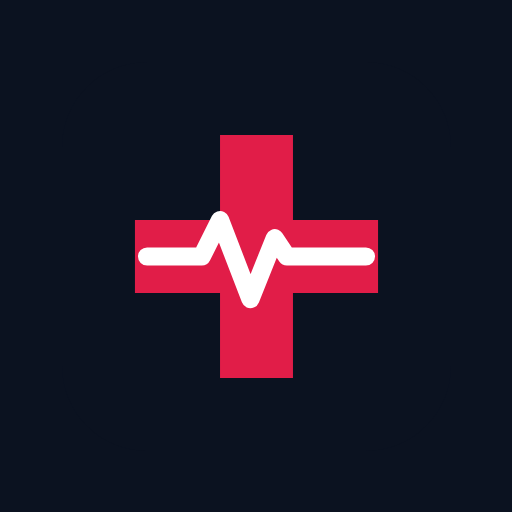
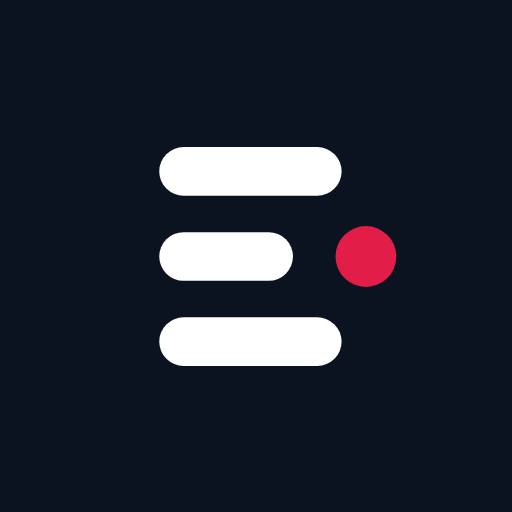
feat(app): portada con accesos rápidos, logotipo e iconos PWA nuevos
Claude-Session: https://claude.ai/code/session_01VWLTZ9C5nfi5t6bbmYMHeX

Changed region(s): [[0.25, 0.25, 0.7812, 0.75]]

diff --git a/app/src/pages/Home.tsx b/app/src/pages/Home.tsx
@@ -6,12 +6,14 @@ import { drugs } from '../data';
 import { AVAILABLE_GROUPS, REFERENCE_GROUPS } from '../data/moduleGroups';
 import { DraftBanner } from '../components/DraftBanner';
 import { ClinicalMinimalIntro } from './ClinicalMinimalIntro';
+import homeCoverCopy from './homeCover.locales.json';
 import './clinical-minimal.css';
 
 const GROUP_ICON: Record<string, IconName> = { vasoactive: 'heart', sedation: 'moon' };
 
 export default function Home() {
-  const { t } = useTranslation();
+  const { t, i18n } = useTranslation();
+  const cover = homeCoverCopy[i18n.resolvedLanguage as keyof typeof homeCoverCopy] ?? homeCoverCopy.en;
   const navigate = useNavigate();
   const [searchParams] = useSearchParams();
   const clinicalMinimal = searchParams.get('design') === 'clinical-minimal';
@@ -22,13 +24,30 @@ export default function Home() {
   };
   return (
     <div className={`space-y-8${clinicalMinimal ? ' clinical-minimal-preview' : ''}`}>
-      <nav aria-label={t('home.clinicalShortcuts')} className="grid grid-cols-2 gap-2 sm:grid-cols-3 lg:grid-cols-6">
-        <Link to="/clinical-note" className="btn-primary">{t('nav.clinicalNote')}</Link>
-        <Link to="/procedures" className="btn-ghost">{t('home.procedures')}</Link>
-        <Link to="/pediatrics" className="btn-ghost">{t('home.pediatrics')}</Link>
-        <Link to="/drugs" className="btn-ghost">{t('nav.drugs')}</Link>
-        <Link to="/scores" className="btn-ghost">{t('home.scores')}</Link>
-        <Link to="/guides" className="btn-ghost">{t('home.guides')}</Link>
+      <nav aria-label={t('home.clinicalShortcuts')} className="space-y-2">
+        <div className="grid grid-cols-2 gap-2.5 lg:grid-cols-4">
+          <Link to="/clinical-note" data-testid="quick-note" className="flex min-h-[104px] flex-col justify-between rounded-2xl bg-fg p-4 text-bg shadow-card transition hover:opacity-90">
+            <span className="font-bold">{t('nav.clinicalNote')}</span>
+            <span className="text-xs opacity-75">{cover.noteHint}</span>
+          </Link>
+          <Link to="/calculator" data-testid="quick-calculator" className="flex min-h-[104px] flex-col justify-between rounded-2xl border border-border bg-surface-2 p-4 transition hover:border-primary">
+            <span className="font-bold">{t('nav.calculator')}</span>
+            <span className="text-xs text-muted">{cover.calcHint}</span>
+          </Link>
+          <Link to="/drugs" data-testid="quick-drugs" className="flex min-h-[104px] flex-col justify-between rounded-2xl border border-border bg-surface-2 p-4 transition hover:border-primary">
+            <span className="font-bold">{t('nav.drugs')}</span>
+            <span className="text-xs text-muted">{cover.drugsHint}</span>
+          </Link>
+          <Link to="/scores" data-testid="quick-scores" className="flex min-h-[104px] flex-col justify-between rounded-2xl border-2 border-fg p-4 transition hover:border-primary">
+            <span className="font-bold">{t('home.scores')}</span>
+          </Link>
+        </div>
+        <div className="flex flex-wrap items-center gap-2">
+          <span className="text-xs font-semibold uppercase tracking-wide text-muted">{cover.more}</span>
+          <Link to="/procedures" className="btn-ghost">{t('home.procedures')}</Link>
+          <Link to="/pediatrics" className="btn-ghost">{t('home.pediatrics')}</Link>
+          <Link to="/guides" className="btn-ghost">{t('home.guides')}</Link>
+        </div>
       </nav>
       <section aria-labelledby="home-title" className="relative overflow-hidden rounded-3xl border border-border bg-surface p-5 shadow-card sm:p-8">
         <div aria-hidden="true" className="pointer-events-none absolute -right-24 -top-24 h-72 w-72 rounded-full bg-primary/10 blur-3xl" />

diff --git a/app/src/components/Logo.tsx b/app/src/components/Logo.tsx
@@ -1,12 +1,14 @@
 import { BRAND } from '../config/brand';
 
-/** Original mark: rounded tile, cross, ECG trace. Colours come from BRAND. */
+/** Original mark: rounded tile, three note lines (E) and an alert dot. Colours come from BRAND. */
 export function LogoMark({ size = 32, className = '' }: { size?: number; className?: string }) {
   return (
     <svg width={size} height={size} viewBox="0 0 64 64" className={className} aria-hidden="true" focusable="false">
-      <rect width="64" height="64" rx="14" fill={BRAND.themeColor} />
-      <path d="M26 12h12v14h14v12H38v14H26V38H12V26h14z" fill={BRAND.accentColor} />
-      <path d="M14 32h9l3-6 5 13 4-10 2 3h13" fill="none" stroke="#fff" strokeWidth="3" strokeLinecap="round" strokeLinejoin="round" />
+      <rect width="64" height="64" rx="16" fill={BRAND.themeColor} />
+      <rect x="16" y="14" width="30" height="8" rx="4" fill="#fff" />
+      <rect x="16" y="28" width="22" height="8" rx="4" fill="#fff" />
+      <rect x="16" y="42" width="30" height="8" rx="4" fill="#fff" />
+      <circle cx="50" cy="32" r="5" fill={BRAND.accentColor} />
     </svg>
   );
 }

diff --git a/STATE.md b/STATE.md
@@ -1,4 +1,4 @@
-28/11 · UI/UX (rama `claude/uiux-design-20261128`, sin fusión): nueva pestaña «Texto libre» en la nota clínica: original inmutable, propuesta de estructura por encabezados ya escritos (es/pt/en, determinista, sin pérdida) y documento final editable; «Aplicar a la nota» solo añade, sin sobrescribir ni duplicar. Solo en memoria, sin almacenamiento. Sin cambios de dosis, motor ni decisiones clínicas. Pendiente: portada, sistema de diseño, a11y. CLINICALLY_PENDING · NO_GO_CLINICAL_RELEASE.
+28/11 · UI/UX (rama `claude/uiux-design-20261128`, PR139, sin fusión): pestaña «Texto libre» (original inmutable, propuesta por encabezados, documento final editable, aplicar sin sobrescribir); portada con accesos rápidos (Nota, Calculadora, Fármacos, Escalas; resto de enlaces conservados), logotipo e iconos PWA nuevos, menú sin solapes. Sin cambios de dosis, motor ni decisiones clínicas. Pendiente: confirmación del propietario del concepto, a11y, Figma. CLINICALLY_PENDING · NO_GO_CLINICAL_RELEASE.
 
 27/11 · Decisiones del propietario sobre base `2058e971`: registro `9018e14` reconciliado en `codex/owner-decisions-20261127`. GMA-P1-003 cerrado exclusivamente como perfil histórico revocado español, runtime desactivado y límite histórico estricto; rutas activas intactas. CARDIO-01–06 aprobadas, comparación documental preparada; formulación original de las 06:10:21 UTC pendiente de recuperación (trazabilidad, no voto). 23 decisiones dermatológicas y Clinical Minimal preservados. Recibos y pendientes: `docs/coordination/owner-decisions-20261127/`. Sin merge ni despliegue. CLINICALLY_PENDING · NOT_FROZEN_NOT_VALIDATED · NO_GO_CLINICAL_RELEASE.
 

diff --git a/clinical/CHANGELOG.md b/clinical/CHANGELOG.md
@@ -1,4 +1,4 @@
-28/11/2026 - UI/UX: pestaña Texto libre (original inmutable, propuesta por encabezados, documento final editable, aplicar sin sobrescribir); sin cambios clínicos. CLINICALLY_PENDING.
+28/11/2026 - UI/UX: portada con accesos rápidos, logotipo e iconos PWA nuevos; pestaña Texto libre (original inmutable, propuesta por encabezados, documento final editable, aplicar sin sobrescribir); sin cambios clínicos. CLINICALLY_PENDING.
 
 27/11/2026 - CARDIO05: partial informational manual selector for seven accepted reference generics and explicit US/ES/PT source filtering; no administration profiles or calculations. Product/jurisdiction verification guard appended to the canonical module; all numerical examples, states and review dates preserved. Portuguese operational identity/RCM/availability and compound-source labetalol identity remain unresolved. See ../docs/coordination/cardio05-reference-selector-20261127/README.md. CLINICALLY_PENDING.
 
